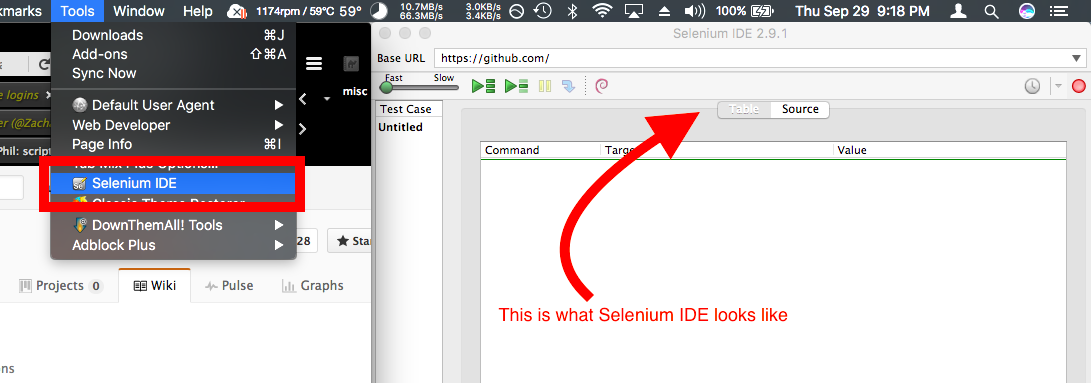
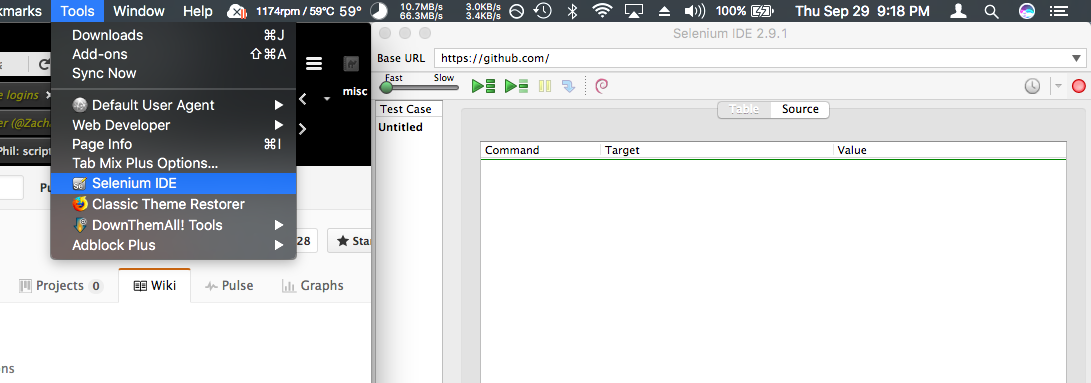
better instructions
and time to go to bed

diff --git a/README.md b/README.md
@@ -2,10 +2,28 @@
 How to automatically vote for Phil 100 times without getting carpal tunnel.
 
 ## First, get Selenium IDE for Firefox
-Go to https://addons.mozilla.org/en-us/firefox/addon/selenium-ide/ and click the `Add to Firefox button`:<BR> ![your internet may suxzor](./images/addToFF.png)
+Go to https://addons.mozilla.org/en-us/firefox/addon/selenium-ide/ and click the `Add to Firefox button`:<BR>
+![your internet may suxzor](./images/addToFF.png)
 ## Next, open the Selenium
-Click on tools then select Selenium IDE: ![your internet may suxzor](./images/tools.png)
-* Copy and paste the script into the source tab in the Selenium IDE then press play.  
+Click on tools then select `Selenium IDE`:<BR>
+![your internet may suxzor](./images/tools.png)
+## Next, copy and paste the script
+1.  Click the `Source` tab:<BR>
+![your internet may suxzor](./images/srcTab.png)
+2.  Open the script https://raw.githubusercontent.com/bj97301/voteForPhil/master/voteForPhilSeleniumScript.html
+3.  Select everything from the link above then copy it
+4.  Paste all of it into the `Source` text area as shown below:
+![your internet may suxzor](./images/srcTabPaste.png)<BR>
 
-The script<BR>
+## Finally, run the script
+1. Click on the `Table` tab to see the progress of the script<BR>
+![your internet may suxzor](./images/tableTab.png)<BR>
+2. Hit that fucking play button like it was brock the rapist's gaping asshole<BR>
+![your internet may suxzor](./images/runButton.png)<BR>
+3. Also, feel free to thumbs up my comment so you can save other beautiful faces from getting carpal tunnel
+
+Direct link to the script<BR>
 https://raw.githubusercontent.com/bj97301/voteForPhil/master/voteForPhilSeleniumScript.html
+
+Love ya,<BR>
+   -Bryan
